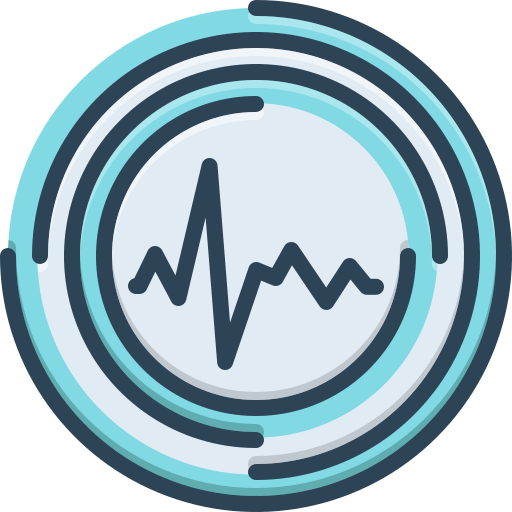
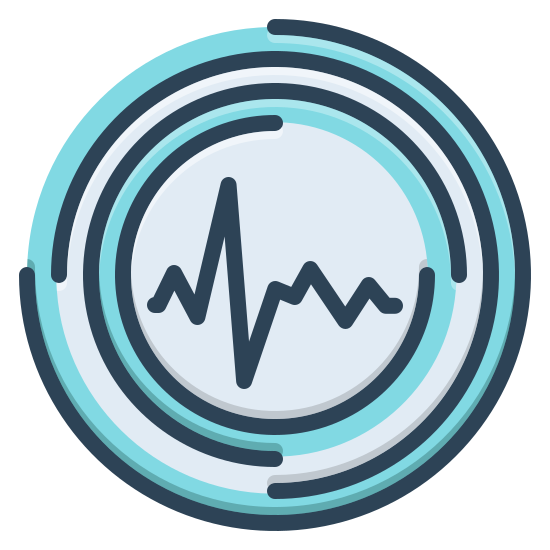
feat(gui): add widget tooltips and real time lyric offset update.
- enable refreshing balloon on every tick
  - add a lyric offset bar showing the base, overlay and total offsets
  - send offset update request continuously while dragging
  - remove horizontal separators and add vertical ones between panels
  - prettify interface

diff --git a/src/frontend/gui/lyric.py b/src/frontend/gui/lyric.py
@@ -47,10 +47,20 @@ class LyricMixin:
                                     width=0,
                                     activestyle='none',
                                     )
-        self.lyric_box.pack(fill='both', expand=True)
+        self.lyric_box.pack(fill='both', expand=True, pady=(0, 10))
+
+        offset_bar = tk.Frame(lyric_frame)
+        offset_bar.pack(fill='x', padx=5, pady=(0,10))
+        
+        self.base_offset_label = tk.Label(offset_bar, font=self.font)
+        self.base_offset_label.pack(side='left', padx=(0,10))
+        self.offset_overlay_label = tk.Label(offset_bar, font=self.font)
+        self.offset_overlay_label.pack(side='left')
+        self.total_offset = tk.Label(offset_bar, font=self.font)
+        self.total_offset.pack(side='right')
 
         bottom_bar = tk.Frame(lyric_frame)
-        bottom_bar.pack(side='bottom', fill='x', padx=10, pady=(10, 0))
+        bottom_bar.pack(side='bottom', fill='x', padx=10)
 
         self.online_lyric_button = tk.Button(bottom_bar, command=self._toggle_online_lyric)
         self.online_lyric_button.pack(side='right', padx=(10, 0))
@@ -59,17 +69,21 @@ class LyricMixin:
                                      font=self.font,
                                      from_=-MAX_OFFSET, 
                                      to=MAX_OFFSET,
-                                     orient='horizontal'
+                                     orient='horizontal',
+                                     showvalue=False,
+                                     command=self._set_offset
                                      )
-        self.offset_scale.pack(side='right', fill='x', expand=True, pady=(0,10))
+        self.offset_scale.pack(side='right', fill='x', expand=True)
         self.offset_scale.bind('<ButtonPress-1>', lambda *_: setattr(self, 'offset_dragging', True))
-        self.offset_scale.bind('<ButtonRelease-1>', self._scroll_set_offset)
+        self.offset_scale.bind('<ButtonRelease-1>', lambda *_: setattr(self, 'offset_dragging', False))
+        self.balloon.bind_widget(self.offset_scale, 'Offset overlay (ms)')
         
         offset_reset_button = tk.Button(bottom_bar,
                                         image=self.reset_offset_icon, 
                                         command=self._reset_offset
                                         )
         offset_reset_button.pack(side='left', padx=(0, 10))
+        self.balloon.bind_widget(offset_reset_button, 'Reset offset')
 
     def _toggle_online_lyric(self, *_):
         self.send_command('lyric')
@@ -77,9 +91,13 @@ class LyricMixin:
     def _reset_offset(self, *_):
         self.send_command('set_offset_overlay', offset=0)
 
-    def _scroll_set_offset(self, *_):
-        self.offset_dragging = False
-        self.send_command('set_offset_overlay', offset=self.offset_scale.get())
+    def _set_offset(self, *_):
+        if self.offset_dragging:
+            self.send_command(
+                'set_offset_overlay',
+                offset=self.offset_scale.get(),
+                silent=True
+                )
 
     def _move_offset(self, increase, *_):
         if increase:
@@ -99,13 +117,22 @@ class LyricMixin:
 
         if self.snapshot.online_lyric is not EMPTY and self.snapshot.online_lyric:
             self.online_lyric_button.config(image=self.online_lyric_icon)
+            self.balloon.bind_widget(self.online_lyric_button, 'Switch to local source')
         else:
             self.online_lyric_button.config(image=self.local_lyric_icon)
+            self.balloon.bind_widget(self.online_lyric_button, 'Switch to online source')
 
         if self.snapshot.offset_overlay is not EMPTY and not self.offset_dragging:
             self.offset_scale.set(self.snapshot.offset_overlay)
 
     def _update_lyric_box(self):
+        if self.snapshot.lyric_offset is not EMPTY:
+            self.base_offset_label.config(text=f'Base: {self.snapshot.lyric_offset}ms')
+        if self.snapshot.offset_overlay is not EMPTY:
+            self.offset_overlay_label.config(text=f'Overlay: {self.snapshot.offset_overlay}ms')
+        if EMPTY not in (self.snapshot.lyric_offset, self.snapshot.offset_overlay):
+            self.total_offset.config(text=f'Total: {self.snapshot.lyric_offset + self.snapshot.offset_overlay}ms')
+
         if self.snapshot.lyric_loading is not EMPTY and self.snapshot.lyric_loading:
             lyric = [' - Loading ... - ']
             index = 0

diff --git a/src/frontend/gui/core.py b/src/frontend/gui/core.py
@@ -2,6 +2,7 @@ import sys
 import time
 from threading import Thread
 import tkinter as tk
+from tkinter import ttk
 import tkinter.font as tkfont
 from tkinter import messagebox
 import webbrowser
@@ -25,11 +26,17 @@ from src.constants.gui import (
     UPDATE_INTERVAL,
     FONT_SIZE,
     ICON_SIZE,
-    DEV_COLOR
+    DEV_COLOR,
+    BALLOON_BG,
+    BALLOON_OFFSET_X,
+    BALLOON_OFFSET_Y,
+    BALLOON_WINDUP,
+    BALLOON_WRAP
     )
 from src.sentinels import SENTINELS
 from src.frontend.client import send_request, test_heartbeat
 from src.frontend.snapshot import Snapshot
+from src.frontend.tkinter_widget.balloon import Balloon
 from src.process import ProcessManager
 from src.utils.time_ import format_time
 from .empty import GUI_EMPTY as EMPTY
@@ -57,6 +64,15 @@ class GUI(tk.Tk, PlaybackMixin, PlaylistMixin, LyricMixin):
         PlaybackMixin.__init__(self)
         PlaylistMixin.__init__(self)
         LyricMixin.__init__(self)
+
+        self.balloon = Balloon(
+            self,
+            bg=BALLOON_BG,
+            wrap_len=BALLOON_WRAP,
+            offset_x=BALLOON_OFFSET_X,
+            offset_y=BALLOON_OFFSET_Y,
+            windup=BALLOON_WINDUP
+            )
 
         self.withdraw()
         
@@ -157,7 +173,7 @@ class GUI(tk.Tk, PlaybackMixin, PlaylistMixin, LyricMixin):
         file_menu.add_command(label='Exit backend', command=lambda: self.send_command('exit'))
         file_menu.add_separator()
         file_menu.add_command(
-            label='Exit', 
+            label='Exit GUI',
             command=lambda *_: self._exit(), 
             accelerator='Ctrl+Q',
             underline=0
@@ -224,12 +240,15 @@ class GUI(tk.Tk, PlaybackMixin, PlaylistMixin, LyricMixin):
         playlist_frame = tk.Frame(main_frame)
         self.build_playlist(playlist_frame)
 
+        left_separator = ttk.Separator(main_frame, orient='vertical')
+        left_separator.pack(side='left', fill='y', padx=5)
         playback_frame.pack(
             side='left', 
             fill='y',
             expand=True,
             padx=(0, 10)
         )
+        ttk.Separator(main_frame, orient='vertical').pack(side='left', fill='y', padx=5)
 
         playlist_frame.pack(
             side='right',
@@ -239,7 +258,7 @@ class GUI(tk.Tk, PlaybackMixin, PlaylistMixin, LyricMixin):
 
 
         self.lyric_pack = lambda: lyric_frame.pack(
-            before=playback_frame,
+            before=left_separator,
             side='left',
             fill='y',
             padx=(0, 10),
@@ -253,15 +272,18 @@ class GUI(tk.Tk, PlaybackMixin, PlaylistMixin, LyricMixin):
         
         self.online_button = tk.Button(bottom_bar, command=lambda: Thread(target=self._check_backend).start())
         self.online_button.pack(side='right')
+        self.balloon.bind_widget(self.online_button, 'Ping backend')
 
         self.run_time_label = tk.Label(bottom_bar, font=tkfont.Font(size=FONT_SIZE, weight='bold'))
         self.run_time_label.pack(side='left', padx=(0, 20))
+        self.balloon.bind_widget(self.run_time_label, 'Backend run time')
 
         self.dev_label = tk.Label(bottom_bar, 
                                   font=tkfont.Font(size=FONT_SIZE+3, weight='bold'), 
                                   fg=DEV_COLOR,
                                   text='DEV'
                                   )
+        self.balloon.bind_widget(self.dev_label, 'Development mode on')
 
     def get_icon(self, path, size=None):
         if size is None:
@@ -330,6 +352,7 @@ class GUI(tk.Tk, PlaybackMixin, PlaylistMixin, LyricMixin):
 
             self.deiconify()
             self.window_ready = True
+        self.balloon.refresh()
 
     def _send_gui_request(self, action, **kwargs):
         silent = kwargs.get('silent', False)

diff --git a/src/frontend/gui/playback.py b/src/frontend/gui/playback.py
@@ -1,5 +1,4 @@
 import tkinter as tk
-from tkinter import ttk
 import tkinter.font as tkfont
 from io import BytesIO
 
@@ -123,8 +122,7 @@ class PlaybackMixin:
         self._build_bottom_bar(bottom_bar)
         
         bottom_bar.pack(side='bottom', fill='x', pady=(10, 0))
-        ttk.Separator(playback_frame, orient='horizontal').pack(side='bottom', fill='x')
-        scale_frame.pack(side='bottom', fill='x', pady=(0,20))
+        scale_frame.pack(side='bottom', fill='x')
         
 
     def _build_bottom_bar(self, bottom_bar):
@@ -135,6 +133,7 @@ class PlaybackMixin:
             command=self._prev
             )
         prev_button.pack(side='left', padx=(0,5))
+        self.balloon.bind_widget(prev_button, 'Previous song')
         
         self.play_button = tk.Button(
             bottom_bar, 
@@ -148,6 +147,7 @@ class PlaybackMixin:
             command=self._next
             )
         next_button.pack(side='left', padx=(0,20))
+        self.balloon.bind_widget(next_button, 'Next song')
 
         stop_button = tk.Button(
             bottom_bar,
@@ -155,6 +155,7 @@ class PlaybackMixin:
             command=self._stop
         )
         stop_button.pack(side='left', padx=(0, 30))
+        self.balloon.bind_widget(stop_button, 'Stop')
 
         self.loop_button = tk.Button(
             bottom_bar, 
@@ -176,6 +177,7 @@ class PlaybackMixin:
             command=self._dice
         )
         dice_button.pack(side='left')
+        self.balloon.bind_widget(dice_button, 'Randomly switch to a song')
         
         self.progress_label = tk.Label(
             bottom_bar, 
@@ -236,23 +238,31 @@ class PlaybackMixin:
 
         if self.snapshot.mute and self.snapshot.mute is not EMPTY:
             self.mute_button.config(image=self.mute_icon)
+            self.balloon.bind_widget(self.mute_button, 'Unmute')
         else:
             self.mute_button.config(image=self.unmute_icon)
+            self.balloon.bind_widget(self.mute_button, 'Mute')
 
         if self.snapshot.player_status == 'playing':
             self.play_button.config(image=self.pause_icon)
+            self.balloon.bind_widget(self.play_button, 'Pause')
         else:
             self.play_button.config(image=self.play_icon)
+            self.balloon.bind_widget(self.play_button, 'Resume')
 
         if self.snapshot.loop and self.snapshot.loop is not EMPTY:
             self.loop_button.config(relief='sunken')
+            self.balloon.bind_widget(self.loop_button, 'Turn off loop')
         else:
             self.loop_button.config(relief='raised')
+            self.balloon.bind_widget(self.loop_button, 'Turn on loop')
 
         if self.snapshot.shuffle and self.snapshot.shuffle is not EMPTY:
             self.shuffle_button.config(relief='sunken')
+            self.balloon.bind_widget(self.shuffle_button, 'Turn off shuffle')
         else:
             self.shuffle_button.config(relief='raised')
+            self.balloon.bind_widget(self.shuffle_button, 'Turn on shuffle')
 
     def _toggle(self, *_):
         self.send_command('toggle')

diff --git a/src/frontend/gui/playlist.py b/src/frontend/gui/playlist.py
@@ -1,6 +1,5 @@
 import tkinter as tk
 import  tkinter.font as tkfont
-from tkinter import ttk
 
 from src.constants.paths import (
     FILTER_ICON_PATH,
@@ -28,7 +27,9 @@ class PlaylistMixin:
         filter_frame = tk.Frame(playlist_frame)
         filter_frame.pack(fill='x', pady=(0,10))
 
-        tk.Label(filter_frame, image=self.filter_icon).pack(side='left', padx=(0,3))
+        filter_label = tk.Label(filter_frame, image=self.filter_icon)
+        filter_label.pack(side='left', padx=(0,3))
+        self.balloon.bind_widget(filter_label, 'Filter songs')
 
         self.filter_entry = tk.Entry(
             filter_frame,
@@ -37,6 +38,7 @@ class PlaylistMixin:
             )
         self.filter_entry.pack(side='left', fill='x', expand=True, padx=(0,5))
         self.no_hotkey_widgets.append(self.filter_entry)
+        self.balloon.bind_widget(self.filter_entry, 'Filter songs')
 
         self.song_num_label = tk.Label(
             filter_frame,
@@ -72,22 +74,22 @@ class PlaylistMixin:
         self.playlist_box.bind('<Return>', self._on_switch)
         self.playlist_box.bind('<Double-Button-1>', self._on_switch)
 
-        ttk.Separator(playlist_frame, orient='horizontal').pack(fill='x')
-
         bottom_bar = tk.Frame(playlist_frame)
-        bottom_bar.pack(side='bottom', fill='x', padx=5, pady=(10, 0))
+        bottom_bar.pack(side='bottom', fill='x', padx=5)
         
         select_current_button = tk.Button(
             bottom_bar, 
             image=self.select_current_icon, 
             command=self._select_current)
         select_current_button.pack(side='right', padx=(5, 0))
+        self.balloon.bind_widget(select_current_button, 'Select playing song')
         
         switch_button = tk.Button(
             bottom_bar, 
             image=self.switch_selected_icon, 
             command=self._on_switch)
         switch_button.pack(side='right')
+        self.balloon.bind_widget(switch_button, 'Switch to selected song')
 
     def _select_current(self, *_):
         if self.snapshot.current_num is not EMPTY:

diff --git a/src/frontend/tkinter_widget/balloon.py b/src/frontend/tkinter_widget/balloon.py
@@ -6,6 +6,8 @@ class Balloon(tk.Toplevel):
         self.offset_x = offset_x
         self.offset_y = offset_y
         self.windup = windup
+        self.texts = {}
+        self.current_widget = None
 
         self.withdraw()
         self.overrideredirect(True)
@@ -22,12 +24,12 @@ class Balloon(tk.Toplevel):
 
         self.job = None
 
-    def _on_enter(self, widget, text):
+    def _on_enter(self, widget):
+        self.current_widget = widget
         self.job = self.after(
             self.windup, 
             self._show, 
             widget=widget, 
-            text=text
             )
 
     def _on_leave(self):
@@ -36,14 +38,19 @@ class Balloon(tk.Toplevel):
             self.job = None
         self.withdraw()
 
-    def _show(self, widget, text):
+    def refresh(self):
+        if self.current_widget is not None:
+            text = self.texts[self.current_widget]
+            self.label.config(text=text)
+
+    def _show(self, widget):
         try:
             x = widget.winfo_rootx() + widget.winfo_width() + self.offset_x
             y = widget.winfo_rooty() + widget.winfo_height() + self.offset_y
         except tk.TclError:
             ...
         else:
-            self.label.config(text=text)
+            self.refresh()
             self.update_idletasks()
 
             if x + self.winfo_reqwidth() > self.winfo_screenwidth():
@@ -58,5 +65,6 @@ class Balloon(tk.Toplevel):
             self.deiconify()
 
     def bind_widget(self, widget, text):
-        widget.bind('<Enter>', lambda *_: self._on_enter(widget, text))
+        self.texts[widget] = text
+        widget.bind('<Enter>', lambda *_: self._on_enter(widget))
         widget.bind('<Leave>', lambda *_: self._on_leave())

diff --git a/src/constants/gui.py b/src/constants/gui.py
@@ -18,6 +18,12 @@ LYRIC_CURRENT_FG = 'black'
 OPEN_COLOR = 'light green'
 CANCEL_COLOR = 'light grey'
 
+BALLOON_BG = '#FFFFE1'
+BALLOON_WRAP = 200
+BALLOON_OFFSET_X = 0
+BALLOON_OFFSET_Y = 1
+BALLOON_WINDUP = 200
+
 SCROLL_EVENTS = (
     '<MouseWheel>',
     '<Button-4>',
